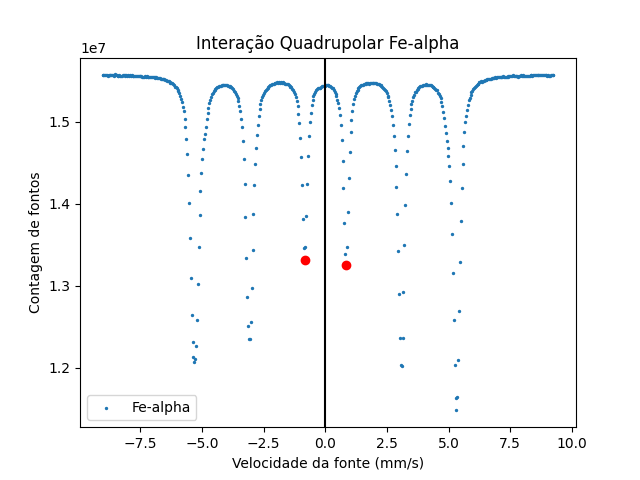
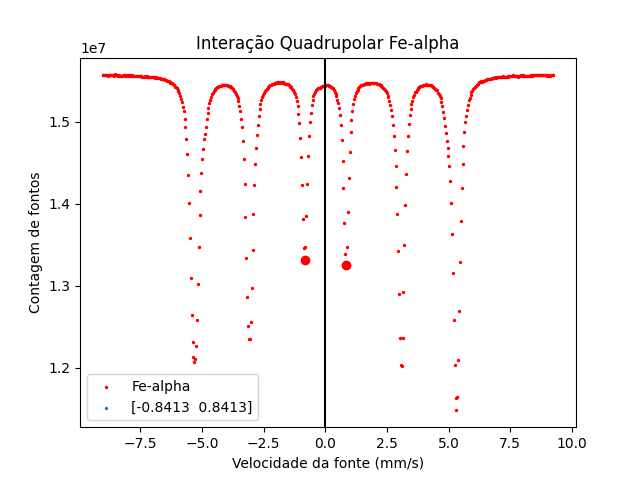
finalizado

diff --git a/Espectroscopia Mössbauer/mossbauer.py b/Espectroscopia Mössbauer/mossbauer.py
@@ -5,6 +5,8 @@ from scipy.signal import find_peaks
 import numpy as np
 #tratamento_Isomerico de dados
 def tratamento_Isomerico(file_name,cor,relacoao_ao_alfa=True):
+    # calcula o desvio isometrico em relação ao ferro-alfa
+    
     #dados a serem tratados
     dados=pd.read_csv(file_name, sep='\t',usecols=[0,2] ,names=["Velocidade da fonte (mm/s)","Contagem de fontos"])
     x = dados["Velocidade da fonte (mm/s)"]
@@ -13,7 +15,8 @@ def tratamento_Isomerico(file_name,cor,relacoao_ao_alfa=True):
     #plot do grafico
     plt.ticklabel_format(axis='y', style='scientific', scilimits=(0, 0))
     if relacoao_ao_alfa==True:
-        plt.axvline(x=0.84, color='black', linestyle='-')#plotando uma linha vertical em Fe_x=0 para ver justamente o desvio a Fe_alfa cujo desvio isometrico é 0
+        #plotando uma linha vertical em Fe_x=0 para ver justamente o desvio a Fe_alfa cujo desvio isometrico é 0
+        plt.axvline(x=0.84, color='black', linestyle='-')
     grafico=plt.scatter(x,y, label=legenda_graficos,s=2, color=cor)
     cursor = mplcursors.cursor(grafico)
     plt.xlabel('Velocidade da fonte (mm/s)')
@@ -31,6 +34,7 @@ tratamento_Isomerico('Espectroscopia Mössbauer\Dados\Mossbauer_data\Hematita.tx
 
 #intereção quadrupolar
 def interacao_quadruplar(file_name, cor, altura):
+    #calcula os pontos de interação quadrupolar
     # Ler dados do arquivo
     dados = pd.read_csv(file_name, sep='\t', usecols=[0, 2], names=["Velocidade da fonte (mm/s)", "Contagem de fontos"])
     x = dados["Velocidade da fonte (mm/s)"]
@@ -65,7 +69,6 @@ def interacao_quadruplar(file_name, cor, altura):
     plt.plot(x_lim.iloc[picos], y_lim.iloc[picos], "ro")  # Usar índices relativos ao intervalo filtrado
     posições_picos=x_lim.iloc[picos].values
     
-    diferenca=x_lim.iloc[picos].diff()
     # Configurar cursor interativo
     plt.scatter(x_lim.iloc[picos], y_lim.iloc[picos],label=posições_picos, s=2)
     mplcursors.cursor(grafico)
@@ -79,12 +82,13 @@ def interacao_quadruplar(file_name, cor, altura):
     # Salvar e mostrar o gráfico
     plt.savefig("Espectroscopia Mössbauer/graficos_Quadrupolar/" + legenda_graficos + '.png')
     plt.show()
-# interacao_quadruplar('Espectroscopia Mössbauer\Dados\Mossbauer_data\Fe-alpha.txt')
-# interacao_quadruplar(r'Espectroscopia Mössbauer\Dados\Mossbauer_data\aco_inox.txt')
+interacao_quadruplar('Espectroscopia Mössbauer\Dados\Mossbauer_data\Fe-alpha.txt', cor="red", altura=-1.4e7)
+interacao_quadruplar(r'Espectroscopia Mössbauer\Dados\Mossbauer_data\aco_inox.txt',cor="gray",altura=-1.4e4)
 interacao_quadruplar('Espectroscopia Mössbauer\Dados\Mossbauer_data\FeSO4.txt',cor="blue",altura=-5e5)
 interacao_quadruplar('Espectroscopia Mössbauer\Dados\Mossbauer_data\Hematita.txt',cor="green",altura=-1.4e5)
 
 def interacoes_heperfinas(file_name,cor,altura):
+    #calcula os ponto de interação hiperfina
     # Ler dados do arquivo
     dados = pd.read_csv(file_name, sep='\t', usecols=[0, 2], names=["Velocidade da fonte (mm/s)", "Contagem de fontos"])
     x = dados["Velocidade da fonte (mm/s)"]
@@ -96,15 +100,15 @@ def interacoes_heperfinas(file_name,cor,altura):
     # Plot do gráfico
     plt.ticklabel_format(axis='y', style='scientific', scilimits=(0, 0))
     
-    # Linha de referência em x=0
+    # Linha de referência em x=0 apenas para ajudar na visualização
     # plt.axvline(x=0, color='black', linestyle='-')
     
     # Definir limites de x para encontrar os picos
     x_min = -9
     x_max = 9
-    mask = (x > x_min) & (x < x_max)  # Apenas valores no intervalo -1 < x < 1
+    mask = (x > x_min) & (x < x_max)  
     
-    # Filtrar os dados para o intervalo desejado
+    # Filtrar os dados para o intervalo desejado, o eixo x e y são limitados nesse intervalo
     x_lim = x[mask]
     y_lim = y[mask]
     
